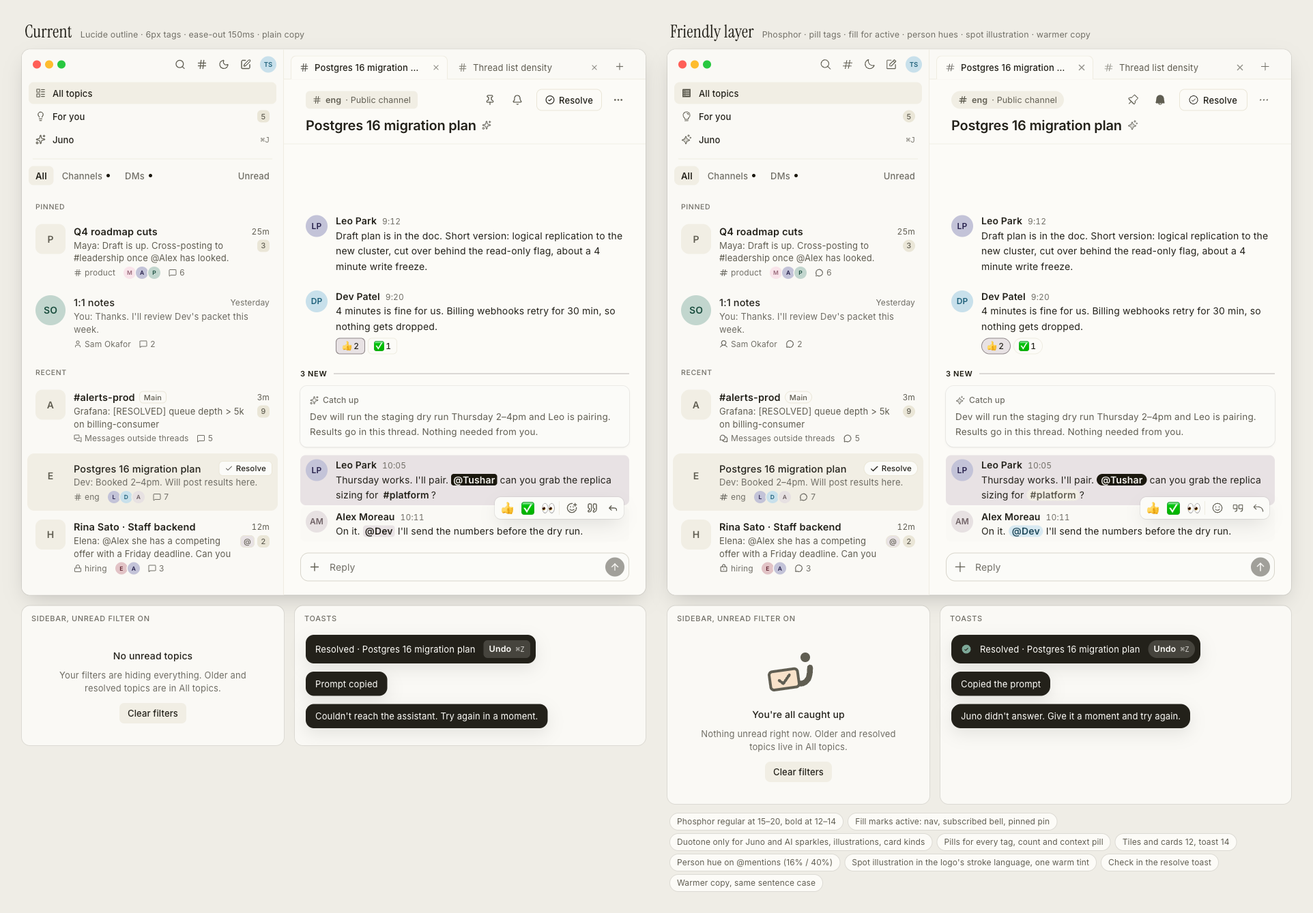
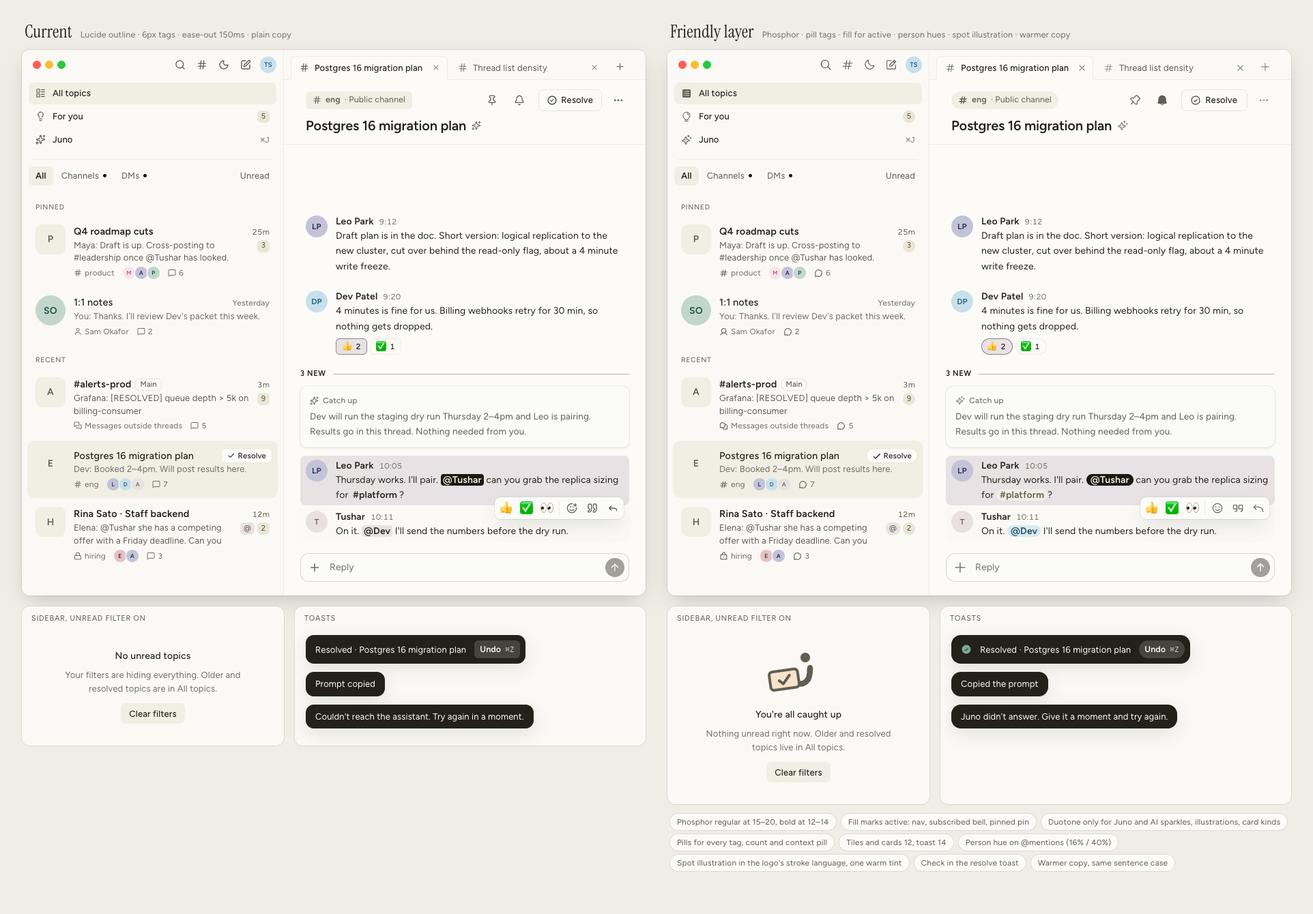
Redesign the dark palette: warm near-black with three surface layers

diff --git a/docs/design/friendly-layer/mock.html b/docs/design/friendly-layer/mock.html
@@ -5,8 +5,8 @@
 <title>Juno · friendly layer · before and after</title>
 <style>
 /* Fonts: the bundled files from the workspace (served over HTTP from the repo root). */
-@font-face { font-family: 'Inter Variable'; font-style: normal; font-weight: 100 900; font-display: block;
-  src: url('../../../packages/tokens/node_modules/@fontsource-variable/inter/files/inter-latin-wght-normal.woff2') format('woff2-variations'); }
+@font-face { font-family: 'Figtree Variable'; font-style: normal; font-weight: 300 900; font-display: block;
+  src: url('../../../packages/tokens/node_modules/@fontsource-variable/figtree/files/figtree-latin-wght-normal.woff2') format('woff2-variations'); }
 @font-face { font-family: 'Instrument Serif'; font-style: normal; font-weight: 400; font-display: block;
   src: url('../../../packages/tokens/node_modules/@fontsource/instrument-serif/files/instrument-serif-latin-400-normal.woff2') format('woff2'); }
 @font-face { font-family: 'JetBrains Mono'; font-style: normal; font-weight: 400; font-display: block;
@@ -49,34 +49,36 @@
   --card-ring: 0 0 0 1px oklch(0 0 0 / .06), 0 1px 2px -1px oklch(0 0 0 / .06), 0 2px 4px 0 oklch(0 0 0 / .04);
   --pop-shadow: 0 0 0 1px oklch(0 0 0 / .06), 0 1px 2px -1px oklch(0 0 0 / .08), 0 10px 28px -6px oklch(0 0 0 / .14);
   --sheet: #EFEDE6;
-  --font-sans: 'Inter Variable', Inter, system-ui, sans-serif;
+  --font-sans: 'Figtree Variable', system-ui, sans-serif;
   --font-serif: 'Instrument Serif', Georgia, serif;
   --font-mono: 'JetBrains Mono', ui-monospace, Menlo, monospace;
   /* person-hue mix strengths (friendly layer) */
   --person-bg-mix: 24%; --person-fg-mix: 62%;
 }
 html[data-theme="dark"] {
-  --background: hsla(210, 5%, 8%, 1);
-  --background-subtle: hsla(210, 5%, 9%, 1);
-  --surface-default: hsla(210, 5%, 11%, 1);
-  --surface-hover: hsla(210, 5%, 13%, 1);
-  --secondary-default: hsla(210, 5%, 16%, 1);
-  --secondary-hover: hsla(210, 5%, 18%, 1);
-  --secondary-active: hsla(210, 5%, 20%, 1);
-  --border-subtle: hsla(210, 5%, 12%, 1);
-  --border-default: hsla(210, 5%, 15%, 1);
-  --border-strong: hsla(210, 5%, 16%, 1);
-  --border-strongest: hsla(210, 5%, 21%, 1);
-  --input-border: hsla(210, 5%, 24%, 1);
-  --foreground-default: hsla(45, 30%, 90%, 1);
-  --foreground-subtle: hsla(45, 10%, 80%, 1);
-  --foreground-muted: hsla(45, 2%, 55%, 1);
+  --background: #1B1916;
+  --background-subtle: #151411;
+  --surface-default: #252421;
+  --surface-hover: #2D2B28;
+  --secondary-default: #302F2C;
+  --secondary-hover: #383633;
+  --secondary-active: #403E3B;
+  --border-subtle: #2B2A27;
+  --border-default: #32302D;
+  --border-strong: #3C3A37;
+  --border-strongest: #4C4A47;
+  --input-border: #464541;
+  --foreground-default: #EEEBE2;
+  --foreground-subtle: #C6C4BE;
+  --foreground-muted: #A09E9A;
   --accent-default: hsla(48, 30%, 90%, 1);
   --accent-foreground: hsla(48, 10%, 2%, 1);
   --shadow-sm: 0 1px 2px 0 rgba(0,0,0,.30);
   --shadow-lg: 0 8px 24px 0 rgba(0,0,0,.50);
-  --card-ring: 0 0 0 1px oklch(1 0 0 / .08);
-  --pop-shadow: 0 0 0 1px oklch(1 0 0 / .1), 0 8px 24px oklch(0 0 0 / .5);
+  --card-ring: 0 1px 2px 0 oklch(0 0 0 / .3), 0 6px 20px -4px oklch(0 0 0 / .35);
+  --pop-shadow: 0 2px 6px -1px oklch(0 0 0 / .3), 0 14px 36px -8px oklch(0 0 0 / .5);
+  /* tiles take more of a dark hue on ink, initials less (tokens 1.6) */
+  --person-bg-mix: 32%; --person-fg-mix: 46%;
   --sheet: #0B0C0D;
 }
 
@@ -629,8 +631,8 @@ html[data-theme="dark"] .legend span { box-shadow: 0 0 0 1px oklch(1 0 0 / .12);
   const hues = { cyan: '#008AB3', claret: '#7F1734', midnight: '#2E1F64', 'emerald-dark': '#00674F', plum: '#E89EB8', rose: '#A49496', emerald: '#50C878', jordy: '#92C2F9' }
   for (const el of document.querySelectorAll('[data-hue]')) {
     const h = hues[el.dataset.hue]
-    el.style.background = `color-mix(in oklch, ${h} 24%, var(--surface-default))`
-    el.style.color = `color-mix(in oklch, ${h} 62%, var(--foreground-default))`
+    el.style.background = `color-mix(in oklch, ${h} var(--person-bg-mix), var(--surface-default))`
+    el.style.color = `color-mix(in oklch, ${h} var(--person-fg-mix), var(--foreground-default))`
   }
   const q = new URLSearchParams(location.search)
   if (q.get('theme') === 'dark') document.documentElement.dataset.theme = 'dark'

diff --git a/packages/tokens/src/themes.stylex.ts b/packages/tokens/src/themes.stylex.ts
@@ -11,29 +11,35 @@
  * and the app can switch back to it.
  */
 import * as stylex from '@stylexjs/stylex'
-import { accent, accentSwatches, colors, shadows } from './tokens.stylex'
+import { accent, accentSwatches, colors, hues, shadows, tints } from './tokens.stylex'
 
 export const darkColors = stylex.createTheme(colors, {
-  '--background': 'hsla(210, 5%, 8%, 1)',
-  '--background-subtle': 'hsla(210, 5%, 9%, 1)',
-  '--surface-default': 'hsla(210, 5%, 11%, 1)',
-  '--surface-hover': 'hsla(210, 5%, 13%, 1)',
-  '--surface-active': 'hsla(210, 5%, 15%, 1)',
-  '--surface-raised': 'hsla(210, 5%, 18%, 1)',
+  // A warm-neutral near-black (OKLCH hue 85, chroma 0.006), so dark is the
+  // same paper seen at night rather than a cool system grey. Three clear
+  // layers: the sidebar sits lowest (L 0.19), the page above it (0.215), and
+  // cards, inputs and the composer on top (0.26); popovers go one step
+  // higher again (0.33). Borders are two steps above what they sit on so
+  // they still separate. Values and contrast: docs/design/tokens.md 1.2.
+  '--background': '#1B1916',
+  '--background-subtle': '#151411',
+  '--surface-default': '#252421',
+  '--surface-hover': '#2D2B28',
+  '--surface-active': '#32302D',
+  '--surface-raised': '#373532',
 
-  '--secondary-default': 'hsla(210, 5%, 16%, 1)',
-  '--secondary-hover': 'hsla(210, 5%, 18%, 1)',
-  '--secondary-active': 'hsla(210, 5%, 20%, 1)',
+  '--secondary-default': '#302F2C',
+  '--secondary-hover': '#383633',
+  '--secondary-active': '#403E3B',
 
-  '--border-subtle': 'hsla(210, 5%, 12%, 1)',
-  '--border-default': 'hsla(210, 5%, 15%, 1)',
-  '--border-strong': 'hsla(210, 5%, 16%, 1)',
-  '--border-strongest': 'hsla(210, 5%, 21%, 1)',
-  '--input-border': 'hsla(210, 5%, 24%, 1)',
+  '--border-subtle': '#2B2A27',
+  '--border-default': '#32302D',
+  '--border-strong': '#3C3A37',
+  '--border-strongest': '#4C4A47',
+  '--input-border': '#464541',
 
-  '--foreground-default': 'hsla(45, 30%, 90%, 1)',
-  '--foreground-subtle': 'hsla(45, 10%, 80%, 1)',
-  '--foreground-muted': 'hsla(45, 2%, 55%, 1)',
+  '--foreground-default': '#EEEBE2',
+  '--foreground-subtle': '#C6C4BE',
+  '--foreground-muted': '#A09E9A',
 
   '--accent-default': 'hsla(48, 30%, 90%, 1)',
   '--accent-hover': 'hsla(48, 30%, 95%, 1)',
@@ -42,7 +48,10 @@ export const darkColors = stylex.createTheme(colors, {
   '--accent-foreground-subtle': 'hsla(48, 10%, 5%, 1)',
   '--accent-foreground-muted': 'hsla(48, 10%, 10%, 1)',
 
-  '--overlay': 'rgba(0, 0, 0, 0.45)',
+  '--overlay': 'rgba(0, 0, 0, 0.5)',
+
+  // The light danger red is 3.0:1 on ink; this one is 6.6:1.
+  '--danger': '#F8767E',
 
   '--warm-soft': 'color-mix(in oklch, #E39A3B 22%, var(--background))',
   // The dark toast is paper on ink, so the check takes more of the green.
@@ -78,8 +87,26 @@ export const darkAccentSwatches = stylex.createTheme(accentSwatches, {
   '--swatch-cyan-fg': '#04212E',
 })
 
+/**
+ * The resolved chip's text: 70% of the green over the light text is 4.3:1 on
+ * its tint in dark, so dark takes less of it. The other tints pass as mixed.
+ */
+export const darkTints = stylex.createTheme(tints, {
+  '--tint-resolved-fg': `color-mix(in oklch, ${colors['--success']} 52%, ${colors['--foreground-default']})`,
+})
+
+/**
+ * Tiles and initials on ink. A dark hue (midnight, claret) at 24% barely
+ * tints a dark surface, so the tile takes more of it; and 62% of that hue
+ * over the light text is a mid tone, so the initials take less.
+ */
+export const darkHues = stylex.createTheme(hues, {
+  '--avatar-bg-mix': '32%',
+  '--avatar-fg-mix': '46%',
+})
+
 /** Everything that changes in dark mode. Spread into stylex.props(). */
-export const dark = [darkColors, darkShadows, darkAccentSwatches] as const
+export const dark = [darkColors, darkShadows, darkAccentSwatches, darkTints, darkHues] as const
 
 /*
  * Accent themes. Each sets the fill, the text on it, the accent text, and

diff --git a/packages/tokens/src/tokens.stylex.ts b/packages/tokens/src/tokens.stylex.ts
@@ -22,7 +22,7 @@ const REDUCED_MOTION = '@media (prefers-reduced-motion: reduce)'
 /* Colour                                                                     */
 /* -------------------------------------------------------------------------- */
 
-/** Base palette. Warm paper in light, cool near-black in dark. */
+/** Base palette. Warm paper in light; themes.stylex.ts has the warm near-black for dark. */
 export const colors = stylex.defineVars({
   // Backgrounds and surfaces.
   '--background': 'hsla(48, 50%, 98%, 1)',

diff --git a/apps/desktop/src/main/launch.ts b/apps/desktop/src/main/launch.ts
@@ -26,7 +26,7 @@ const DEFAULTS: Launch = { theme: 'light' }
  * packages/tokens/src/tokens.stylex.ts and themes.stylex.ts. Main cannot
  * import StyleX files, so the two values are repeated here; keep them in sync.
  */
-export const BACKGROUND = { light: '#fdfcf8', dark: '#131415' } as const
+export const BACKGROUND = { light: '#fdfcf8', dark: '#1b1916' } as const
 
 const decode = Schema.decodeUnknownSync(Launch)
 const encode = Schema.encodeSync(Launch)

diff --git a/docs/design/tokens.md b/docs/design/tokens.md
@@ -45,34 +45,39 @@ Warm paper. HSL values are the source of truth; hex is the sRGB result for desig
 
 ### 1.2 Base palette, dark
 
-Cool near-black. Applied with `[data-theme="dark"]` on the root.
+A warm-neutral near-black: the same paper seen at night, not a cool system grey. Built in OKLCH at hue 85 and chroma 0.006 (text at hue 90), so every step is one hue and only lightness moves. Three clear layers: the sidebar and tab strip sit lowest (L 0.19), the page above them (0.215), and cards, inputs and the composer on top (0.26); popovers and the hover toolbar go one step higher again (0.33, `--surface-raised`). Borders are two steps above what they sit on, so they still separate. Applied with the `dark` theme classes on `<html>`. Before and after renders of the friendly mock: `docs/design/dark-theme/before.png` (the cool palette the handoff CSS gave) and `after.png`.
 
-| Token | Value | Hex | Source |
-| --- | --- | --- | --- |
-| `--background` | `hsla(210, 5%, 8%, 1)` | #131415 | css |
-| `--background-subtle` | `hsla(210, 5%, 9%, 1)` | #161718 | css |
-| `--surface-default` | `hsla(210, 5%, 11%, 1)` | #1B1C1D | css |
-| `--surface-hover` | `hsla(210, 5%, 13%, 1)` | #1F2123 | css |
-| `--surface-active` | `hsla(210, 5%, 15%, 1)` | #242628 | css |
-| `--surface-raised` | `hsla(210, 5%, 18%, 1)` | #2B2E30 | proposed |
-| `--secondary-default` | `hsla(210, 5%, 16%, 1)` | #27292B | css |
-| `--secondary-hover` | `hsla(210, 5%, 18%, 1)` | #2C2E30 | css |
-| `--secondary-active` | `hsla(210, 5%, 20%, 1)` | #303336 | css |
-| `--border-subtle` | `hsla(210, 5%, 12%, 1)` | #1D1F20 | css |
-| `--border-default` | `hsla(210, 5%, 15%, 1)` | #242628 | css |
-| `--border-strong` | `hsla(210, 5%, 16%, 1)` | #27292B | css |
-| `--border-strongest` | `hsla(210, 5%, 21%, 1)` | #333638 | css |
-| `--foreground-default` | `hsla(45, 30%, 90%, 1)` | #EDE9DE | css |
-| `--foreground-subtle` | `hsla(45, 10%, 80%, 1)` | #D1CFC7 | css |
-| `--foreground-muted` | `hsla(45, 2%, 55%, 1)` | #8F8D8A | css (5.57:1 on bg, no override needed) |
-| `--accent-default` | `hsla(48, 30%, 90%, 1)` | #EDEADE | css |
-| `--accent-hover` | `hsla(48, 30%, 95%, 1)` | #F6F5F0 | css |
-| `--accent-active` | `hsla(48, 30%, 99%, 1)` | #FDFDFC | css |
-| `--accent-foreground` | `hsla(48, 10%, 2%, 1)` | #060505 | css |
-| `--accent-foreground-subtle` | `hsla(48, 10%, 5%, 1)` | #0E0D0B | css |
-| `--accent-foreground-muted` | `hsla(48, 10%, 10%, 1)` | #1C1A17 | css |
-| `--selection-background` | `hsla(200, 97%, 20%, 1)` | #024364 | css |
-| `--input-border` | `hsla(210, 5%, 24%, 1)` | #3A3D40 | proto |
+| Token | Hex | OKLCH L | Measured | Source |
+| --- | --- | --- | --- | --- |
+| `--background` | #1B1916 | 0.215 | | redesign |
+| `--background-subtle` | #151411 | 0.19 | 1.05:1 under the page | redesign |
+| `--surface-default` | #252421 | 0.26 | 1.13:1 over the page | redesign |
+| `--surface-hover` | #2D2B28 | 0.29 | 1.31:1 over the sidebar | redesign |
+| `--surface-active` | #32302D | 0.31 | | redesign |
+| `--surface-raised` | #373532 | 0.33 | 1.43:1 over the page, 1.27:1 over a card | redesign |
+| `--secondary-default` | #302F2C | 0.305 | 1.38:1 over the sidebar (selected row) | redesign |
+| `--secondary-hover` | #383633 | 0.335 | | redesign |
+| `--secondary-active` | #403E3B | 0.365 | | redesign |
+| `--border-subtle` | #2B2A27 | 0.285 | 1.22:1 on the page (topic header rule) | redesign |
+| `--border-default` | #32302D | 0.31 | 1.40:1 on the sidebar edge, 1.33:1 on the page | redesign |
+| `--border-strong` | #3C3A37 | 0.35 | 1.37:1 on a card | redesign |
+| `--border-strongest` | #4C4A47 | 0.41 | 1.99:1 on the page | redesign |
+| `--input-border` | #464541 | 0.39 | 1.62:1 on the composer | redesign |
+| `--foreground-default` | #EEEBE2 | 0.94 | 14.7:1 on the page | redesign |
+| `--foreground-subtle` | #C6C4BE | 0.82 | 10.1:1 page, 7.7:1 `--secondary-default`, 6.1:1 `--secondary-active`, 7.0:1 popovers | redesign |
+| `--foreground-muted` | #A09E9A | 0.70 | 6.6:1 page, 6.9:1 sidebar, 5.8:1 cards, 5.3:1 hover, 5.0:1 `--secondary-default`, 4.6:1 popovers | redesign |
+| `--accent-default` | `hsla(48, 30%, 90%, 1)` #EDEADE | | The ink accent's dark fill | css |
+| `--accent-hover` | `hsla(48, 30%, 95%, 1)` | | | css |
+| `--accent-active` | `hsla(48, 30%, 99%, 1)` | | | css |
+| `--accent-foreground` | `hsla(48, 10%, 2%, 1)` | | | css |
+| `--accent-foreground-subtle` | `hsla(48, 10%, 5%, 1)` | | | css |
+| `--accent-foreground-muted` | `hsla(48, 10%, 10%, 1)` | | | css |
+| `--danger` | #F8767E | 0.72 | 6.6:1 page, 5.8:1 cards (the light red is 3.0:1 on ink) | redesign |
+| `--overlay` | `rgba(0, 0, 0, 0.5)` | | | redesign |
+
+Dark-only overrides on other groups: `--tint-resolved-fg` takes 52% of the green instead of 70% (1.5); `--avatar-bg-mix` 32% and `--avatar-fg-mix` 46% instead of 24% / 62% (1.6); the shadows (6); the accent swatches (1.3). `BrowserWindow.backgroundColor` in `apps/desktop/src/main/launch.ts` repeats `--background` for both themes.
+
+The handoff's dark values (`hsla(210, 5%, 8%)` and up, cool and two to three lightness points apart) are kept in the git history; they made the sidebar, page and cards one flat black with invisible borders.
 
 ### 1.3 Accents
 
@@ -98,21 +103,21 @@ Ink keeps the old grey states: `--hl-nav` is `--secondary-default`, its tint mix
 | Accent | Theme | Fill | Text on fill | Accent text | Text on fill | Fill vs page (info) | Accent text and ring on page | On selected nav | On soft tint | Body on selection |
 | --- | --- | --- | --- | --- | --- | --- | --- | --- | --- | --- |
 | Coral | Light | #CC4628 | #FFFFFF | #B4351F | 4.69 | 4.53 | 5.85 | 5.11 | 5.13 | 10.76 |
-| Coral | Dark | #FF8A73 | #2A0D06 | #FF9C87 | 7.88 | 8.02 | 9.10 | 6.98 | 7.51 | 9.53 |
+| Coral | Dark | #FF8A73 | #2A0D06 | #FF9C87 | 7.88 | 7.63 | 8.65 | 7.24 | 7.01 | 9.05 |
 | Near-black (ink) | Light | #1B180E | #F5F4F0 | #1B180E | 16.12 | 17.14 | 17.14 | 15.28 | 13.87 | 10.10 |
-| Near-black (ink) | Dark | #EDEADE | #060505 | #EDEADE | 16.89 | 15.30 | 15.30 | 12.11 | 12.97 | 10.30 |
+| Near-black (ink) | Dark | #EDEADE | #060505 | #EDEADE | 16.89 | 14.55 | 14.55 | 11.11 | 12.19 | 9.77 |
 | Marigold | Light | #F2A900 | #2B1E00 | #7F5200 | 8.11 | 1.94 | 6.52 | 6.00 | 6.05 | 13.12 |
-| Marigold | Dark | #F5B83A | #2B1E00 | #F5B83A | 9.16 | 10.36 | 10.36 | 7.63 | 8.30 | 8.79 |
+| Marigold | Dark | #F5B83A | #2B1E00 | #F5B83A | 9.16 | 9.86 | 9.86 | 7.93 | 7.74 | 8.29 |
 | Teal | Light | #0B7A75 | #FFFFFF | #096762 | 5.18 | 5.00 | 6.48 | 5.65 | 5.69 | 10.59 |
-| Teal | Dark | #45C2BB | #04201E | #5ED0CA | 7.87 | 8.51 | 9.97 | 7.54 | 8.12 | 9.32 |
+| Teal | Dark | #45C2BB | #04201E | #5ED0CA | 7.87 | 8.09 | 9.48 | 7.86 | 7.63 | 8.84 |
 | Midnight blue | Light | #2E1F64 | #FFFAEB | #2E1F64 | 13.45 | 13.56 | 13.56 | 11.05 | 11.03 | 9.30 |
-| Midnight blue | Dark | #B3A5EA | #1A1238 | #BDB0F0 | 7.99 | 8.33 | 9.34 | 7.15 | 7.65 | 9.37 |
+| Midnight blue | Dark | #B3A5EA | #1A1238 | #BDB0F0 | 7.99 | 7.92 | 8.88 | 7.33 | 7.14 | 8.94 |
 | Dark emerald | Light | #00674F | #FFFAEB | #00674F | 6.59 | 6.64 | 6.64 | 5.69 | 5.73 | 9.96 |
-| Dark emerald | Dark | #4FC4A1 | #04261B | #63D0AF | 7.50 | 8.56 | 9.81 | 7.42 | 8.00 | 9.36 |
+| Dark emerald | Dark | #4FC4A1 | #04261B | #63D0AF | 7.50 | 8.14 | 9.33 | 7.67 | 7.45 | 8.88 |
 | Claret | Light | #7F1734 | #FFFAEB | #7F1734 | 9.70 | 9.78 | 9.78 | 8.16 | 8.16 | 9.47 |
-| Claret | Dark | #F08BA0 | #3B0A18 | #F59DB0 | 7.17 | 7.82 | 9.07 | 6.98 | 7.51 | 9.57 |
+| Claret | Dark | #F08BA0 | #3B0A18 | #F59DB0 | 7.17 | 7.44 | 8.63 | 7.24 | 6.99 | 9.08 |
 | Cyan | Light | #008AB3 | #060505 | #006A8A | 5.12 | 3.84 | 5.92 | 5.27 | 5.27 | 11.22 |
-| Cyan | Dark | #5AC6EC | #04212E | #6CCFF2 | 8.50 | 9.42 | 10.40 | 7.77 | 8.39 | 9.02 |
+| Cyan | Dark | #5AC6EC | #04212E | #6CCFF2 | 8.50 | 8.96 | 9.89 | 8.01 | 7.79 | 8.52 |
 
 ### 1.4 Context tints (public / private / DM)
 
@@ -120,9 +125,9 @@ Always derived from the base palette so they follow dark mode. Formulas from the
 
 | Context | Background | Foreground | Light hex (bg / fg) | Dark hex (bg / fg) | Contrast light / dark |
 | --- | --- | --- | --- | --- | --- |
-| Public channel | `var(--secondary-default)` | `var(--foreground-subtle)` | #F1EEE4 / #605E52 | #27292B / #D1CFC7 | 5.65 / 9.36 |
-| Private channel | `color-mix(in oklch, var(--warning) 15%, var(--background))` | `color-mix(in oklch, var(--warning) 42%, var(--foreground-default))` | #F9EFDB / #6D5524 | #2E271A / #E9CD99 | 6.21 / 9.61 |
-| Direct message, group DM | `color-mix(in oklch, var(--info) 12%, var(--background))` | `color-mix(in oklch, var(--info) 55%, var(--foreground-default))` | #DFEEF6 / #1F5970 | #172125 / #7CB6D0 | 6.52 / 7.39 |
+| Public channel | `var(--secondary-default)` | `var(--foreground-subtle)` | #F1EEE4 / #605E52 | #302F2C / #C6C4BE | 5.62 / 7.68 |
+| Private channel | `color-mix(in oklch, var(--warning) 15%, var(--background))` | `color-mix(in oklch, var(--warning) 42%, var(--foreground-default))` | #F9EEDB / #6C5424 | #342C1C / #EACE9C | 6.24 / 9.07 |
+| Direct message, group DM | `color-mix(in oklch, var(--info) 12%, var(--background))` | `color-mix(in oklch, var(--info) 55%, var(--foreground-default))` | #DFEEF5 / #20596F | #1A262B / #7EB7D0 | 6.50 / 7.06 |
 
 Token names [proposed]: `--tint-public-bg/fg`, `--tint-private-bg/fg`, `--tint-dm-bg/fg`.
 
@@ -132,31 +137,33 @@ Used by: topic header context pill, New message To pill, Juno send-card pill. Ic
 
 | Token | Value | Source | Notes |
 | --- | --- | --- | --- |
-| `--danger` | #C41E3A | css | Unused in prototype. 5.66:1 on light bg |
+| `--danger` | #C41E3A light, #F8767E dark | css / redesign | Sign-in error line. 5.64:1 on paper, 6.59:1 on ink |
 | `--success` | #00674F | css | Resolved check icon in rows; Resolved status chip tint |
 | `--warning` | #E0A500 | css | Only ever mixed (private tint, audience guard). As text it is 2.13:1, never use raw |
 | `--info` | #008AB3 | css | Only mixed (DM tint). 3.85:1 as text |
-| Resolved chip | bg `color-mix(in oklch, var(--success) 12%, var(--background))`, fg `color-mix(in oklch, var(--success) 70%, var(--foreground-default))` | proto | Light #DDEAE4 / #165240 (7.34:1); dark #161E1B / #548E7A (4.48:1, borderline) |
-| Audience guard | bg `color-mix(in oklch, var(--warning) 14%, var(--surface-default))`, fg `color-mix(in oklch, var(--warning) 45%, var(--foreground-default))` | proto | |
+| Resolved chip | bg `color-mix(in oklch, var(--success) 12%, var(--background))`, fg `color-mix(in oklch, var(--success) 70%, var(--foreground-default))` light, `52%` dark | proto / redesign | Light #DCE9E4 / #165240 (7.27:1); dark #18231F / #7AA696 (5.94:1; 70% was 4.27:1 on the new palette) |
+| Audience guard | bg `color-mix(in oklch, var(--warning) 14%, var(--surface-default))`, fg `color-mix(in oklch, var(--warning) 45%, var(--foreground-default))` | proto | Light #F9EFDE / #725824 (5.88:1); dark #3C3426 / #E9CC96 (7.91:1) |
 | Notification decision chips | Now: `--hl` / `--hl-fg`. Digest: `--secondary-default` / `--foreground-subtle`. Silent: transparent / `--foreground-muted` (summary chips use `--surface-hover` instead of transparent) | proto | |
 | Mention tint (message that mentions you) | `--hl-soft` on the message row | proto | |
 | Traffic lights | #FF5F57, #FEBC2E, #28C840 | proto | Only for mock-ups; Electron draws real ones |
 | `--warm` | #E39A3B | friendly layer | Illustration fill only; never text, never a control |
-| `--warm-soft` | `color-mix(in oklch, var(--warm) 26%, var(--background))` light (#F8E2CA), `22%` dark (#3C2E1F) | friendly layer | The one flat layer inside every spot illustration |
-| `--toast-success` | `color-mix(in oklch, var(--success) 55%, var(--background))` light (6.1:1 on the ink toast), `80%` dark (7.2:1 on the paper toast) | friendly layer | The filled check in the resolve toast |
+| `--warm-soft` | `color-mix(in oklch, var(--warm) 26%, var(--background))` light (#F8E2CA), `22%` dark (#423221) | friendly layer | The one flat layer inside every spot illustration |
+| `--toast-success` | `color-mix(in oklch, var(--success) 55%, var(--background))` light (6.1:1 on the ink toast), `80%` dark (7.1:1 on the paper toast) | friendly layer | The filled check in the resolve toast |
 
 ### 1.6 Person colours (avatars)
 
 A person gets one brand hue; the tile derives two colours from it:
 
-- background: `color-mix(in oklch, <hue> 24%, var(--surface-default))`
-- foreground: `color-mix(in oklch, <hue> 62%, var(--foreground-default))`
+- background: `color-mix(in oklch, <hue> 24%, var(--surface-default))` light, `32%` dark
+- foreground: `color-mix(in oklch, <hue> 62%, var(--foreground-default))` light, `46%` dark
 
-Mention chips (friendly layer): background `color-mix(in oklch, <hue> 16%, var(--surface-default))`, foreground `color-mix(in oklch, <hue> 40%, var(--foreground-default))`, weight 600. Lowest measured contrast 5.7:1 (midnight, dark). Tokens `--person-chip-bg-mix: 16%`, `--person-chip-fg-mix: 40%` beside the avatar mix (`--avatar-bg-mix: 24%`, `--avatar-fg-mix: 62%`). The hue is also the default colour of a channel tile (`ChannelIcon`), hashed from the channel id until the user picks another; the user can pick any of the eight.
+Dark takes more of the hue in the tile and less in the initials: at 24% a dark hue (midnight, claret) barely tints ink, and at 62% it makes the initials a mid tone on a dark tile (midnight was 3.0:1).
+
+Mention chips (friendly layer): background `color-mix(in oklch, <hue> 16%, var(--surface-default))`, foreground `color-mix(in oklch, <hue> 40%, var(--foreground-default))`, weight 600, the same in both themes. Measured light / dark: cyan 7.8 / 7.0, claret 9.8 / 5.8, midnight 10.5 / 5.3, dark emerald 9.0 / 6.3, plum 6.3 / 7.9, rose 7.1 / 7.4, emerald 6.3 / 7.9, jordy 6.1 / 8.0; lowest 5.3:1 (midnight, dark). Tokens `--person-chip-bg-mix: 16%`, `--person-chip-fg-mix: 40%` beside the avatar mix (`--avatar-bg-mix: 24%` / `32%` dark, `--avatar-fg-mix: 62%` / `46%` dark). The hue is also the default colour of a channel tile (`ChannelIcon`), hashed from the channel id until the user picks another; the user can pick any of the eight.
 
 Hues from the brand palette [proto]: #008AB3 cyan, #7F1734 claret, #2E1F64 midnight, #00674F dark emerald, #E89EB8 plum, #A49496 rose quartz (also bots), #50C878 emerald, #92C2F9 jordy blue.
 
-Measured examples: midnight #C3C3D8 / #28224D (8.5:1), claret #E2C3C6 / #5D1F2C (7.6:1), emerald #D5F0DA / #3F8454 (3.7:1). Initials are 7.5–14px; light hues (emerald, jordy, plum, yellow) fall under 4.5:1. Acceptable for decorative initials, but do not use the derived foreground for text. [proposed] Assign hues deterministically from a hash of the user id, and skip `--lb-yellow`.
+Measured, light: midnight #C3C2D9 / #28214D (8.5:1), claret #E3C3C6 / #5D1F2C (7.6:1), emerald #D5F0DA / #3F8454 (3.7:1); the light hues (emerald, jordy, plum) fall under 4.5:1 on paper. Dark, with the dark mixes: every hue is 4.5:1 or better (midnight #26243A / #8C89B1 4.5, claret 4.8, cyan 5.3, dark emerald 5.1, plum 5.5, rose 5.4, emerald 5.5, jordy 5.5). Initials are 7.5–14px; acceptable for decorative initials, but do not use the derived foreground for text. [proposed] Assign hues deterministically from a hash of the user id, and skip `--lb-yellow`.
 
 ### 1.7 Muted grey contrast (light mode)
 
@@ -174,7 +181,7 @@ Measured examples: midnight #C3C3D8 / #28224D (8.5:1), claret #E2C3C6 / #5D1F2C 
 
 Rule that follows: muted text may sit on `--background`, `--background-subtle`, `--surface-default` and `--surface-hover`. On `--secondary-*` surfaces use `--foreground-subtle` (the prototype already does this for unread count tags, status chips and pills). The read-count tag (muted on `--secondary-default`, 4.39:1) is the one exception; [proposed] use `--foreground-subtle` there too.
 
-Dark mode muted (#8F8D8A) is 5.57:1 on the background and 4.43:1 on `--secondary-default`; same rule applies.
+Dark mode muted (#A09E9A) is 6.56:1 on the page, 5.8:1 on cards, 4.57:1 on popovers and 5.01:1 on `--secondary-default`, so in dark the rule is not needed, but keep to it so the two themes share one set of pairings.
 
 ### 1.8 Focus ring
 

diff --git a/docs/design/friendly-layer.md b/docs/design/friendly-layer.md
@@ -4,7 +4,7 @@ Direction for making Juno feel playful and friendly without giving up what makes
 
 Where this document and `tokens.md`, `primitives.md` or `inventory.md` disagree, this document wins; section 9 lists the edits to apply to `tokens.md` so they stop disagreeing. `docs/design/handoff/SPEC.md` still decides behaviour.
 
-The before/after mock is `docs/design/friendly-layer/mock.html` (renders: `mock-light.png`, `mock-dark.png`). Serve the repo root over HTTP to open it; the fonts load from `packages/tokens/node_modules`.
+The before/after mock is `docs/design/friendly-layer/mock.html` (renders: `mock-light.png`, `mock-dark.png`). Serve the repo root over HTTP to open it; the fonts load from `packages/tokens/node_modules`. The mock follows the tokens for the font (Figtree) and the dark palette (`tokens.md` 1.2), but keeps the friendly-layer radii and the ink accent so the two columns stay a fair before and after; the later options review (`options.html`: C1 + D1, Coral and the rounder shapes) is implemented in the app, not in this mock.
 
 ## Status
 
@@ -18,7 +18,7 @@ Implemented in `packages/tokens`, `packages/ui`, `packages/views` and the galler
 - §7 Copy: the sign-in, session, empty-state, toast and engine-status copy is in the views and fixtures. The engine-status container strings in `apps/desktop` still read "Engine …" until that container is reworked.
 - Beyond this document: SPEC §5 now says person avatars are Slack profile photos and channels get a client-only icon and colour. `Avatar` takes `src` with a no-shift fade; `ChannelIcon` draws a chosen icon or the first letter on a chosen hue, with `defaultChannelLook(id)` for the untouched case; `channelIcons` and `channelColorNames` are the picker's data and `ChannelIconPicker` in `@juno/views` is the (unwired) picker.
 
-Open: the four questions in §10, plus whether an untouched channel should show its first letter (as built) or a hash icon.
+Open: the four questions in §10, plus whether an untouched channel should show its first letter (as built) or a hash icon. Decided since, from `options.html`: Figtree (C1), Coral as the default accent with the accent a user setting, and the D1 rounder shapes; and the dark palette was redesigned (`docs/design/dark-theme/`). `tokens.md` carries the values.
 
 ## 1. What friendly means here
 

diff --git a/packages/tokens/README.md b/packages/tokens/README.md
@@ -49,7 +49,8 @@ Apps call `applyTheme(theme, accent)` from `@juno/ui` (re-exported by `@juno/vie
 ## Rules the tokens encode
 
 - Never `cursor: pointer`. `global.css` sets the arrow cursor on the body and the text cursor on text inputs and textareas; checkboxes, radios and ranges keep the arrow.
-- The muted grey is `hsla(48, 5%, 42%)`, darker than the handoff, so meta text reaches 4.5:1 on paper. Muted text may sit on `--background`, `--background-subtle`, `--surface-default` and `--surface-hover`; on `--secondary-*` fills use `--foreground-subtle`.
+- The muted grey is `hsla(48, 5%, 42%)`, darker than the handoff, so meta text reaches 4.5:1 on paper. Muted text may sit on `--background`, `--background-subtle`, `--surface-default`, `--surface-hover` and `--surface-raised`; on `--secondary-*` fills use `--foreground-subtle`.
+- Dark is a warm-neutral near-black with three layers (sidebar below the page, cards above it, popovers and the hover toolbar on `--surface-raised` above that), not the handoff's cool flat grey. `docs/design/tokens.md` 1.2 has the values and the measured pairs; `docs/design/dark-theme/` the before and after.
 - `--focus-ring` is the accent's text colour (4.5:1 or better on the page for every accent; ink keeps the info blue), never the pale selection colour. `--selection-background` is the accent at 28% over the page and is for text selection only.
 - The cyan accent takes near-black `--hl-fg`; its off-white text would be 3.8:1. Unread counts never take the accent.
 - Floating surfaces use `--pop-shadow` or `--card-ring` with a transparent 1px border, never a coloured border. Inputs keep `--input-border`.

diff --git a/docs/design/inventory.md b/docs/design/inventory.md
@@ -547,8 +547,8 @@ Native menus **[spec]**. Prototype rendering for reference: 236px, padding 5, ra
 
 - Trigger: Theme button in the sidebar bar (or OS setting; [proposed] default "follow system", with the button overriding). Root gets `data-theme="dark"` and the dark token block (tokens §1.2) applies; nothing else changes.
 - During the switch the root carries `data-theme-switching` for two frames so every transition is disabled and colours change at once.
-- Dark-only values: `--input-border hsla(210,5%,24%)`, `--card-ring 0 0 0 1px oklch(1 0 0/.08)`, `--pop-shadow 0 0 0 1px oklch(1 0 0/.1), 0 8px 24px oklch(0 0 0/.5)`; tints and `--hl-soft` recompute from the dark base. Accent ink flips to light (#EDEADE) with near-black text; the four colour accents stay the same hex.
-- Everything else (sizes, weights, icons) is identical. Check: resolved chip text in dark is 4.48:1 (borderline); cyan accent chip text fails (tokens §1.3).
+- Dark-only values: the dark base palette (tokens §1.2), the dark shadows, `--tint-resolved-fg` at 52%, the avatar mixes 32% / 46%; the other tints and `--hl-soft` recompute from the dark base. Every accent has its own dark values (tokens §1.3): ink flips to light (#EDEADE) with near-black text, Coral goes from #CC4628 to #FF8A73.
+- Everything else (sizes, weights, icons) is identical. Check: resolved chip text in dark is 5.94:1; cyan takes near-black text on its fill (tokens §1.3).
 
 ## 19. Tweaks and defaults
 
